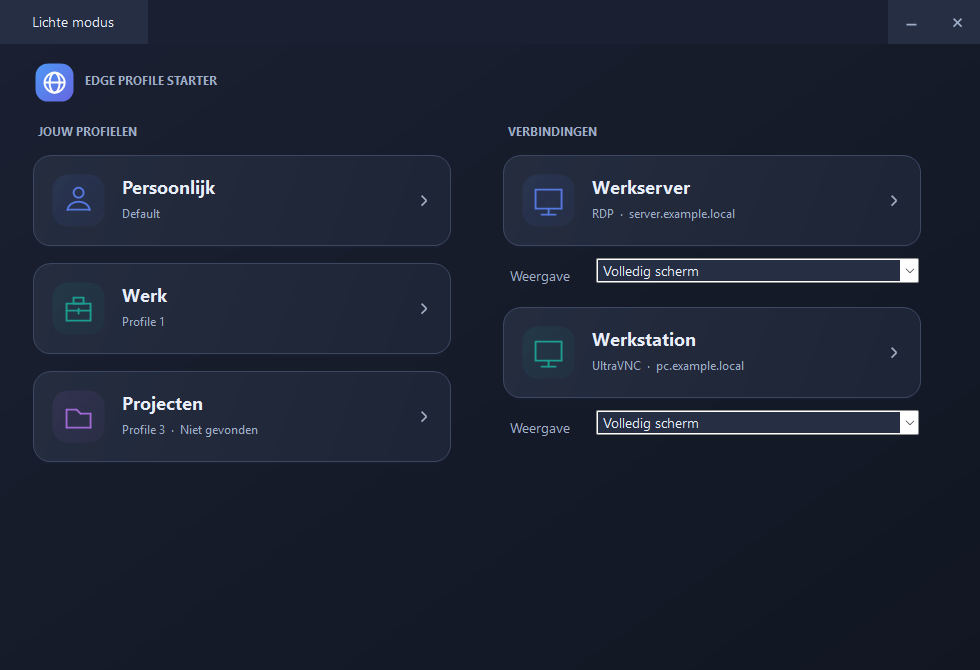
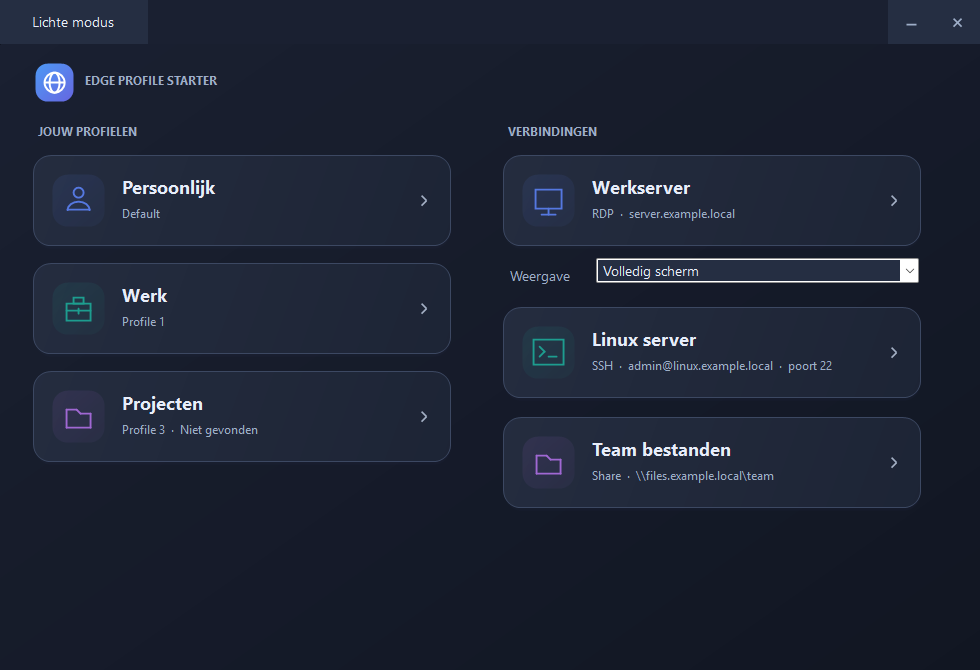
ssh option

Changed region(s): [[0.5204, 0.597, 0.949, 0.7463], [0.5204, 0.4776, 0.8571, 0.5672]]

diff --git a/tests/SmokeTests.cs b/tests/SmokeTests.cs
@@ -22,9 +22,11 @@ namespace EdgeProfileStarter
                 RdpStartup();
                 VncStartup();
                 DisplayModes();
+                ShareStartup();
+                SshStartup();
                 SynchronizationContext.SetSynchronizationContext(null);
                 BrowserStartup().GetAwaiter().GetResult();
-                Console.WriteLine("OK: configuration, validation, theme persistence, form lifecycle, browser window selection, cancellation and RDP/UltraVNC connections.");
+                Console.WriteLine("OK: configuration, validation, theme persistence, form lifecycle, browser window selection, cancellation and RDP/UltraVNC/share/SSH connections.");
                 return 0;
             }
             catch (Exception error) { Console.Error.WriteLine(error); return 1; }
@@ -44,7 +46,9 @@ namespace EdgeProfileStarter
                 profiles = new List<Profile> { new Profile { directory = "Default", name = "Werk \"A\" \\ thuis" } },
                 rdpSessions = new List<RdpSession> { new RdpSession { name = "Server", host = "server.example:3390" } },
                 vncSessions = new List<VncSession> { new VncSession { name = "VNC server", host = "vnc.example::5901", username = @"DOMEIN\tim" } },
-                ultraVncViewerPath = @"C:\Tools\UltraVNC\vncviewer.exe"
+                ultraVncViewerPath = @"C:\Tools\UltraVNC\vncviewer.exe",
+                shares = new List<NetworkShare> { new NetworkShare { name = "FTP", path = @"\\192.168.1.253\ftp" } },
+                sshSessions = new List<SshSession> { new SshSession { name = "Linux", host = "linux.example", username = "admin", port = 2222 } }
             };
             var values = serializer.Deserialize<Dictionary<string, object>>(serializer.Serialize(config));
             values["extra"] = new object[] { "quotes: \" \\ {} []", new Dictionary<string, object>() };
@@ -56,6 +60,8 @@ namespace EdgeProfileStarter
                 Configuration loaded = store.Load();
                 Assert(loaded.darkMode && loaded.profiles[0].name == config.profiles[0].name, "Theme save changed profiles.");
                 Assert(loaded.vncSessions.Count == 1 && loaded.vncSessions[0].host == "vnc.example::5901" && loaded.ultraVncViewerPath == config.ultraVncViewerPath && loaded.vncSessions[0].username == @"DOMEIN\tim", "Theme save changed VNC configuration.");
+                Assert(loaded.shares.Count == 1 && loaded.shares[0].path == @"\\192.168.1.253\ftp", "Theme save changed shares.");
+                Assert(loaded.sshSessions.Count == 1 && loaded.sshSessions[0].username == "admin" && loaded.sshSessions[0].port == 2222, "Theme save changed SSH configuration.");
                 Assert(serializer.Deserialize<Dictionary<string, object>>(File.ReadAllText(path)).ContainsKey("extra"), "Extra fields lost.");
                 using (var form = new Launcher(store))
                 {
@@ -203,6 +209,62 @@ namespace EdgeProfileStarter
                 if (result != null) return result;
             }
             return null;
+        }
+        private static void ShareStartup()
+        {
+            ProcessStartInfo command = null;
+            int calls = 0;
+            var launcher = new ShareLauncher(delegate(ProcessStartInfo info) { command = info; calls++; });
+            foreach (string path in new[] { @"\\192.168.1.253\ftp", @"\\server\Team Files\Sub Folder", @"\\server\share\", @"\\server\C$" })
+            {
+                launcher.Launch(new NetworkShare { name = "Share", path = path });
+                Assert(Path.GetFileName(command.FileName) == "explorer.exe" && command.UseShellExecute, "Share must open Explorer.");
+                Assert(command.Arguments == "\"" + path.TrimEnd('\\') + "\"", "UNC path must be one correctly quoted argument.");
+            }
+            int previous = calls;
+            foreach (string path in new[] { "", @"C:\folder", @"\server\share", @"\\\server\share", @"\\server", @"\\.\C$", @"\\?\C:\folder", "\\\\server\\share\r\n", "\\\\server\\share\" /select", @"\\server\share\..\other", "https://example.com" })
+            {
+                bool rejected = false;
+                try { launcher.Launch(new NetworkShare { name = "Bad", path = path }); }
+                catch (InvalidDataException) { rejected = true; }
+                Assert(rejected, "Invalid share accepted.");
+            }
+            Assert(calls == previous, "Invalid share started Explorer.");
+        }
+        private static void SshStartup()
+        {
+            ProcessStartInfo command = null;
+            int calls = 0;
+            var launcher = new SshLauncher(delegate(ProcessStartInfo info) { command = info; calls++; }, delegate { return @"C:\Windows\System32\OpenSSH\ssh.exe"; });
+            launcher.Launch(new SshSession { name = "Linux", host = "linux.example", username = "admin", port = 2222 });
+            Assert(command.Arguments == "-p 2222 -l \"admin\" -- \"linux.example\"", "SSH arguments changed.");
+            Assert(command.FileName == @"C:\Windows\System32\OpenSSH\ssh.exe" && command.UseShellExecute && !command.CreateNoWindow, "SSH must open an interactive Windows SSH console.");
+            launcher.Launch(new SshSession { name = "Default", host = "my-ssh-alias" });
+            Assert(command.Arguments == "-- \"my-ssh-alias\"", "Optional SSH fields must be omitted for SSH config defaults.");
+            launcher.Launch(new SshSession { name = "IPv6", host = "2001:db8::1", username = @"DOMAIN\tim" });
+            Assert(command.Arguments == "-l \"DOMAIN\\tim\" -- \"2001:db8::1\"", "IPv6 or domain username lost.");
+            int before = calls;
+            foreach (var invalid in new[] {
+                new SshSession { name = "Bad", host = "-oProxyCommand=bad" },
+                new SshSession { name = "Bad", host = "server command" },
+                new SshSession { name = "Bad", host = "server\"" },
+                new SshSession { name = "Bad", host = "user@server" },
+                new SshSession { name = "Bad", host = "server", port = 0 },
+                new SshSession { name = "Bad", host = "server", port = 65536 },
+                new SshSession { name = "Bad", host = "server", username = "user\r\nother" }
+            })
+            {
+                bool rejected = false;
+                try { launcher.Launch(invalid); }
+                catch (InvalidDataException) { rejected = true; }
+                Assert(rejected, "Invalid SSH session accepted.");
+            }
+            Assert(calls == before, "Invalid SSH input started a process.");
+            bool missing = false;
+            launcher = new SshLauncher(delegate { throw new Exception("Must not start."); }, delegate { throw new FileNotFoundException(); });
+            try { launcher.Launch(new SshSession { name = "Missing client", host = "server" }); }
+            catch (FileNotFoundException) { missing = true; }
+            Assert(missing, "Missing Windows SSH client error lost.");
         }
         private static async Task BrowserStartup()
         {

diff --git a/src/Services/SshLauncher.cs b/src/Services/SshLauncher.cs
@@ -1,0 +1,70 @@
+using System;
+using System.Diagnostics;
+using System.Globalization;
+using System.IO;
+
+namespace EdgeProfileStarter
+{
+    internal sealed class SshLauncher
+    {
+        private readonly Action<ProcessStartInfo> start;
+        private readonly Func<string> findExecutable;
+        internal SshLauncher() : this(StartProcess, FindExecutable) { }
+        internal SshLauncher(Action<ProcessStartInfo> start, Func<string> findExecutable)
+        {
+            this.start = start;
+            this.findExecutable = findExecutable;
+        }
+
+        internal static void Validate(SshSession session)
+        {
+            if (session == null || String.IsNullOrWhiteSpace(session.name) || String.IsNullOrWhiteSpace(session.host))
+                throw new InvalidDataException("Elke SSH-sessie moet een naam en host hebben.");
+            if (session.host[0] == '-') throw new InvalidDataException("Een SSH-host mag niet met een optie beginnen.");
+            foreach (char c in session.host)
+                if (Char.IsWhiteSpace(c) || Char.IsControl(c) || "\"\\/@".IndexOf(c) >= 0)
+                    throw new InvalidDataException("Ongeldige SSH-host: geef alleen de hostnaam of het IP-adres op.");
+            if (session.port.HasValue && (session.port < 1 || session.port > 65535))
+                throw new InvalidDataException("Een SSH-poort moet tussen 1 en 65535 liggen.");
+            if (session.username != null)
+                foreach (char c in session.username)
+                    if (Char.IsControl(c) || c == '"')
+                        throw new InvalidDataException("De SSH-gebruikersnaam mag geen besturingstekens of dubbele aanhalingstekens bevatten.");
+        }
+
+        internal void Launch(SshSession session)
+        {
+            Validate(session);
+            string arguments = "";
+            if (session.port.HasValue) arguments += "-p " + session.port.Value.ToString(CultureInfo.InvariantCulture) + " ";
+            if (!String.IsNullOrWhiteSpace(session.username)) arguments += "-l " + Quote(session.username) + " ";
+            arguments += "-- " + Quote(session.host);
+            // Shell execution of this console executable creates an interactive terminal.
+            start(new ProcessStartInfo(findExecutable(), arguments) { UseShellExecute = true, CreateNoWindow = false });
+        }
+
+        private static string Quote(string value)
+        {
+            int trailing = value.Length - value.TrimEnd('\\').Length;
+            return "\"" + value + new string('\\', trailing) + "\"";
+        }
+
+        internal static string FindExecutable()
+        {
+            string windows = Environment.GetFolderPath(Environment.SpecialFolder.Windows);
+            if (Environment.Is64BitOperatingSystem && !Environment.Is64BitProcess)
+            {
+                string native = Path.Combine(windows, "Sysnative", "OpenSSH", "ssh.exe");
+                if (File.Exists(native)) return native;
+            }
+            string executable = Path.Combine(windows, "System32", "OpenSSH", "ssh.exe");
+            if (File.Exists(executable)) return executable;
+            throw new FileNotFoundException("Windows OpenSSH Client is niet gevonden. Installeer OpenSSH Client via de optionele Windows-onderdelen.");
+        }
+
+        private static void StartProcess(ProcessStartInfo info)
+        {
+            using (Process process = Process.Start(info)) { }
+        }
+    }
+}

diff --git a/src/UI/Launcher.cs b/src/UI/Launcher.cs
@@ -17,6 +17,8 @@ namespace EdgeProfileStarter
         private readonly EdgeLauncher edge = new EdgeLauncher();
         private readonly RdpLauncher rdp = new RdpLauncher();
         private readonly VncLauncher vnc = new VncLauncher();
+        private readonly ShareLauncher shareLauncher = new ShareLauncher();
+        private readonly SshLauncher ssh = new SshLauncher();
         private readonly CancellationTokenSource shutdown = new CancellationTokenSource();
         private readonly FlowLayoutPanel profiles = new FlowLayoutPanel();
         private readonly FlowLayoutPanel connections = new FlowLayoutPanel();
@@ -179,8 +181,36 @@ namespace EdgeProfileStarter
                         });
                         connections.Controls.Add(button);
                     }
+                if (config.sshSessions != null)
+                    foreach (SshSession session in config.sshSessions)
+                    {
+                        SshSession selected = session;
+                        string target = (String.IsNullOrWhiteSpace(selected.username) ? "" : selected.username + "@") + selected.host;
+                        if (selected.port.HasValue) target += "  ·  poort " + selected.port.Value;
+                        var button = new ProfileCard(selected.name, "SSH  ·  " + target, index++, false, false, true) {
+                            Height = 96, Margin = new Padding(0, 0, 0, 14), AccessibleDescription = "Open deze SSH-verbinding"
+                        };
+                        button.Click += delegate {
+                            try { ssh.Launch(selected); }
+                            catch (Exception error) { ShowError("SSH kon niet worden gestart. " + error.Message); }
+                        };
+                        connections.Controls.Add(button);
+                    }
+                if (config.shares != null)
+                    foreach (NetworkShare share in config.shares)
+                    {
+                        NetworkShare selected = share;
+                        var button = new ProfileCard(selected.name, "Share  ·  " + selected.path, index++, false, true) {
+                            Height = 96, Margin = new Padding(0, 0, 0, 14), AccessibleDescription = "Open deze share in Windows Verkenner"
+                        };
+                        button.Click += delegate {
+                            try { shareLauncher.Launch(selected); }
+                            catch (Exception error) { ShowError("De share kon niet worden geopend. " + error.Message); }
+                        };
+                        connections.Controls.Add(button);
+                    }
                 if (connections.Controls.Count == 0)
-                    connections.Controls.Add(new Label { Text = "Voeg RDP- of UltraVNC-sessies toe in config.json.", Height = 64, Padding = new Padding(4, 16, 0, 0), BackColor = Color.Transparent });
+                    connections.Controls.Add(new Label { Text = "Voeg verbindingen of shares toe in config.json.", Height = 64, Padding = new Padding(4, 16, 0, 0), BackColor = Color.Transparent });
                 ResizeButtons();
                 Theme.Dark = config.darkMode;
                 ApplyTheme();

diff --git a/src/Services/ShareLauncher.cs b/src/Services/ShareLauncher.cs
@@ -1,0 +1,44 @@
+using System;
+using System.Diagnostics;
+using System.IO;
+
+namespace EdgeProfileStarter
+{
+    internal sealed class ShareLauncher
+    {
+        private readonly Action<ProcessStartInfo> start;
+        internal ShareLauncher() : this(StartProcess) { }
+        internal ShareLauncher(Action<ProcessStartInfo> start) { this.start = start; }
+
+        internal static void Validate(NetworkShare share)
+        {
+            if (share == null || String.IsNullOrWhiteSpace(share.name) || String.IsNullOrWhiteSpace(share.path))
+                throw new InvalidDataException("Elke share moet een naam en UNC-pad hebben.");
+            string path = share.path;
+            if (!path.StartsWith(@"\\", StringComparison.Ordinal) || path.Length < 5 || path[2] == '\\')
+                throw new InvalidDataException(@"Gebruik een UNC-pad zoals \\server\share.");
+            foreach (char c in path)
+                if (Char.IsControl(c) || "<>:\"|?*/".IndexOf(c) >= 0)
+                    throw new InvalidDataException("Ongeldig teken in het share-pad.");
+            string[] parts = path.Substring(2).TrimEnd('\\').Split('\\');
+            if (parts.Length < 2) throw new InvalidDataException("Geef zowel de server als de sharenaam op.");
+            foreach (string part in parts)
+                if (String.IsNullOrWhiteSpace(part) || part == "." || part == "..")
+                    throw new InvalidDataException("Ongeldig onderdeel in het share-pad.");
+        }
+
+        internal void Launch(NetworkShare share)
+        {
+            Validate(share);
+            // Do not probe the network here: Explorer handles unavailable hosts and sign-in.
+            string path = share.path.TrimEnd('\\');
+            string executable = Path.Combine(Environment.GetFolderPath(Environment.SpecialFolder.Windows), "explorer.exe");
+            start(new ProcessStartInfo(executable, "\"" + path + "\"") { UseShellExecute = true });
+        }
+
+        private static void StartProcess(ProcessStartInfo info)
+        {
+            using (Process process = Process.Start(info)) { }
+        }
+    }
+}

diff --git a/src/UI/Controls/ProfileCard.cs b/src/UI/Controls/ProfileCard.cs
@@ -16,7 +16,7 @@ namespace EdgeProfileStarter
         internal ProfileCard(string name, string directory, bool exists, int index)
             : this(name, directory + (exists ? "" : "  ·  Niet gevonden"), index, false) { }
 
-        internal ProfileCard(string name, string detail, int index, bool remote)
+        internal ProfileCard(string name, string detail, int index, bool remote, bool folder = false, bool terminal = false)
         {
             title = name;
             subtitle = detail;
@@ -25,7 +25,7 @@ namespace EdgeProfileStarter
             AccessibleDescription = remote ? "Open deze RDP-sessie" : "Open Microsoft Edge met dit profiel";
             Color[] colors = { Color.FromArgb(85, 120, 225), Color.FromArgb(29, 157, 143), Color.FromArgb(160, 104, 211) };
             accent = colors[index % colors.Length];
-            symbol = remote ? 3 : index % 3;
+            symbol = terminal ? 4 : folder ? 2 : remote ? 3 : index % 3;
             Cursor = Cursors.Hand;
             FlatStyle = FlatStyle.Flat;
             FlatAppearance.BorderSize = 0;
@@ -89,10 +89,15 @@ namespace EdgeProfileStarter
                     g.DrawLine(pen, 38, 23, 38, 37);
                     g.DrawLine(pen, 38, 37, 14, 37);
                     g.DrawLine(pen, 14, 37, 14, 19);
-                } else {
+                } else if (symbol == 3) {
                     g.DrawRectangle(pen, 13, 15, 26, 19);
                     g.DrawLine(pen, 26, 34, 26, 40);
                     g.DrawLine(pen, 19, 40, 33, 40);
+                } else {
+                    g.DrawRectangle(pen, 11, 13, 30, 25);
+                    g.DrawLine(pen, 17, 20, 22, 25);
+                    g.DrawLine(pen, 22, 25, 17, 30);
+                    g.DrawLine(pen, 26, 30, 34, 30);
                 }
             }
             g.ResetTransform();

diff --git a/src/Services/ConfigurationStore.cs b/src/Services/ConfigurationStore.cs
@@ -40,6 +40,10 @@ namespace EdgeProfileStarter
                 foreach (RdpSession session in config.rdpSessions) RdpLauncher.Validate(session);
             if (config.vncSessions != null)
                 foreach (VncSession session in config.vncSessions) VncLauncher.Validate(session);
+            if (config.shares != null)
+                foreach (NetworkShare share in config.shares) ShareLauncher.Validate(share);
+            if (config.sshSessions != null)
+                foreach (SshSession session in config.sshSessions) SshLauncher.Validate(session);
             var directories = new HashSet<string>(StringComparer.OrdinalIgnoreCase);
             foreach (Profile profile in config.profiles)
             {

diff --git a/src/Models/Configuration.cs b/src/Models/Configuration.cs
@@ -10,5 +10,7 @@ namespace EdgeProfileStarter
         public List<RdpSession> rdpSessions { get; set; }
         public List<VncSession> vncSessions { get; set; }
         public string ultraVncViewerPath { get; set; }
+        public List<NetworkShare> shares { get; set; }
+        public List<SshSession> sshSessions { get; set; }
     }
 }

diff --git a/src/Models/SshSession.cs b/src/Models/SshSession.cs
@@ -1,0 +1,10 @@
+namespace EdgeProfileStarter
+{
+    public sealed class SshSession
+    {
+        public string name { get; set; }
+        public string host { get; set; }
+        public string username { get; set; }
+        public int? port { get; set; }
+    }
+}

diff --git a/src/Models/NetworkShare.cs b/src/Models/NetworkShare.cs
@@ -1,0 +1,8 @@
+namespace EdgeProfileStarter
+{
+    public sealed class NetworkShare
+    {
+        public string name { get; set; }
+        public string path { get; set; }
+    }
+}

diff --git a/README.md b/README.md
@@ -4,7 +4,7 @@ Een kleine Windows desktop-app om Microsoft Edge met een bestaand profiel te ope
 
 ![Edge Profile Starter in donkere modus](docs/screenshot.png)
 
-De screenshot toont voorbeeldhosts voor RDP en UltraVNC met de weergavekeuze per verbinding.
+De screenshot toont voorbeeldverbindingen voor RDP en SSH en een share-knop.
 
 Het venster heeft een eigen titelbalk met minimaliseren en sluiten. Versleep het via de bovenste strook. Maximaliseren is uitgeschakeld. Het eigen app-icoon is ingebouwd in de exe; de bronbestanden staan in `assets`. Met `generate-icon.ps1` kun je het icoon opnieuw genereren.
 
@@ -95,10 +95,38 @@ Onder elke RDP- en UltraVNC-kaart kies je vóór het verbinden **Volledig scherm
 Bij UltraVNC verandert de keuze de lokale viewer, niet de resolutie of monitorindeling van de externe computer. Eventuele opgeslagen UltraVNC-standaardinstellingen worden door de viewer met commandoregelopties gecombineerd en kunnen het resultaat beïnvloeden. De RDP-server moet meerdere monitoren ondersteunen voor de optie Alle schermen.
 
 Bronnen: [mstsc-opties](https://learn.microsoft.com/en-us/windows-server/administration/windows-commands/mstsc), [UltraVNC-opties](https://uvnc.com/docs/ultravnc-viewer/52-ultravnc-viewer-commandline-parameters.html), [UltraVNC-optieverwerking](https://github.com/ultravnc/UltraVNC/blob/main/vncviewer/VNCOptions.cpp).
+## Shares openen
+
+Shares staan in dezelfde kolom **Verbindingen**, met een mapicoon. Klik op een share om die in Windows Verkenner te openen. Voeg naast `profiles`, `rdpSessions` en `vncSessions` de volgende lijst toe aan `config.json`:
+
+```json
+"shares": [
+  { "name": "FTP", "path": "\\\\192.168.1.253\\ftp" },
+  { "name": "Team", "path": "\\\\fileserver\\Team Files" }
+]
+```
+
+Een normaal Windows-pad is `\\192.168.1.253\ftp`; in JSON moeten backslashes dubbel geschreven worden. Onderliggende mappen en spaties zijn toegestaan. Start de launcher opnieuw na een configuratiewijziging. Windows regelt de netwerkaanmelding en toegang; de launcher slaat hiervoor geen gebruikersnaam of wachtwoord op. De app controleert de netwerklocatie niet vooraf, zodat onbereikbare servers het laden van de launcher niet vertragen. Er is geen beeldschermkeuze nodig voor shares.
+## SSH
+
+SSH-verbindingen staan met een terminalicoon onder **Verbindingen**. Voeg in `config.json` een lijst toe:
+
+```json
+"sshSessions": [
+  { "name": "Linux-server", "host": "192.168.1.40", "username": "admin", "port": 22 },
+  { "name": "SSH-config alias", "host": "my-server" }
+]
+```
+
+`username` en `port` zijn optioneel. Zonder die velden gebruikt SSH de eigen standaardinstellingen of je SSH-configuratie. Een poort moet tussen 1 en 65535 liggen; zet de poort in `port`, niet achter de hostnaam. IPv6-adressen zijn toegestaan. De launcher start rechtstreeks Windows `System32\OpenSSH\ssh.exe` in een interactieve console, zonder een `cmd`- of PowerShell-tussenstap. Daar kun je eventuele hostkeyvragen beantwoorden en je wachtwoord of sleutelwachtwoord invoeren. De launcher blijft open en slaat geen wachtwoorden op.
+
+Windows **OpenSSH Client** moet geïnstalleerd zijn. Als die ontbreekt, toont de launcher een melding; installeer dan OpenSSH Client via de optionele Windows-onderdelen. Start de launcher opnieuw na het aanpassen van de configuratie. SSH-knoppen hebben geen beeldschermkeuze nodig.
 ## Code-indeling
 
 - `src/Models`: de configuratie en profielgegevens.
 - `src/Services/ConfigurationStore.cs`: laden, valideren en atomisch opslaan van `config.json`.
+- `src/Services/SshLauncher.cs`: Windows SSH starten in een interactieve console.
+- `src/Services/ShareLauncher.cs`: UNC-shares openen met Windows Verkenner.
 - `src/Services/VncLauncher.cs`: UltraVNC Viewer vinden en een verbinding starten.
 - `src/Services/RdpLauncher.cs`: rechtstreeks mstsc starten met het ingestelde hostadres.
 - `src/Services/EdgeLauncher.cs`: Edge starten en wachten op een gemaximaliseerd venster.
